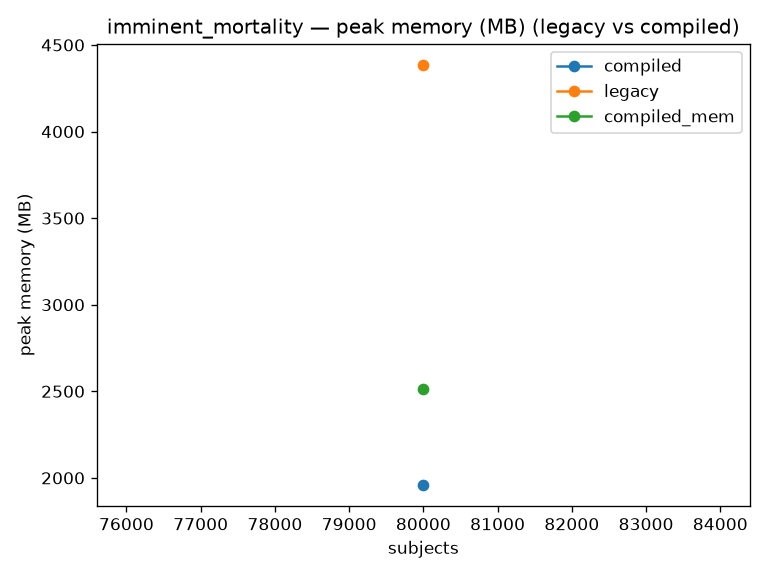
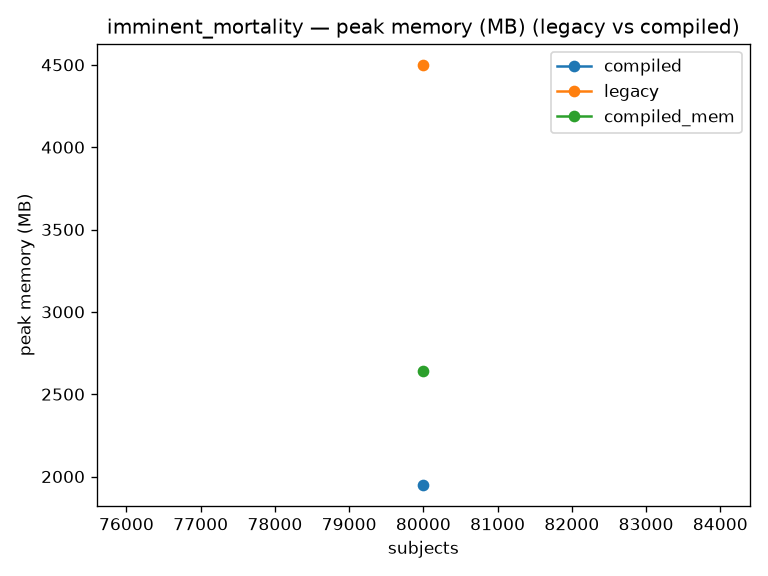
Materialize windows at event-bound edges (inhospital now 2x faster)
Re-profiling inhospital_mortality after the base barrier showed the temporal
group_by_rolling nodes evaluated ~17x for two windows: cur embeds each rolling
and is referenced by the struct, the constraint filter, the recursion, and
every downstream join, so the lazy plan re-runs the rolling per reference.

compile_query(materialize_windows=True) (the default) collects the accumulated
frame once at each EVENT-BOUND edge -- the high-fan-out points where ws and cur
are each used several times. Placement matters: materializing at every window
(temporal included) fixes inhospital but slows deep chains (chain16 2.58->3.67s,
16 collects for re-evaluation flattening already made linear). Restricting the
barrier to event-bound edges keeps the inhospital win and leaves chains
untouched.

This flips inhospital_mortality from the last remaining loss to a ~2x win, so
the compiled engine is now faster than legacy on EVERY benchmarked config.

Isolated sweep (80k subjects), compiled vs legacy time / peak mem:
  inhospital_mortality 0.52x / 0.56x  (2.14s/2753MB -> 1.11s/1549MB)
  imminent_mortality   0.32x / 0.59x
  readmission_risk     0.55x / 0.72x
  chain16              0.36x / 1.80x  (faster, heavier)
  wide16               0.33x / 0.93x

All 238 parity tests green (value-preserving).

- compile.py: barrier threaded through _process_children, applied at event-bound
  edges only; materialize_windows flag (default True).
- benchmarks/results: refreshed isolated.csv + plots.
[…]

diff --git a/src/aces/compile.py b/src/aces/compile.py
@@ -86,12 +86,17 @@ def _window_summary_struct(name: str, predicate_cols: list[str]) -> pl.Expr:
     ).alias(f"{name}_summary")
 
 
+def _identity(lf: pl.LazyFrame) -> pl.LazyFrame:
+    return lf
+
+
 def _process_children(
     node: Node,
     cur: pl.LazyFrame,
     predicates_lf: pl.LazyFrame,
     predicate_cols: list[str],
     offset: timedelta = timedelta(0),
+    barrier=_identity,
 ) -> pl.LazyFrame:
     """Compile every edge in ``node``'s subtree onto ``cur``, *flattening* where possible.
 
@@ -126,7 +131,11 @@ def _process_children(
             cur = cur.with_columns(_window_summary_struct(child.name, predicate_cols)).drop(
                 "timestamp_at_start", "timestamp_at_end", *predicate_cols
             )
-            cur = _process_children(child, cur, predicates_lf, predicate_cols, child_offset)
+            # No barrier on temporal edges: flattening already makes a temporal chain linear,
+            # and a per-window collect would just add overhead proportional to chain length.
+            # cur's accumulated rollings get materialized at the next event-bound edge (below)
+            # or at the final collect.
+            cur = _process_children(child, cur, predicates_lf, predicate_cols, child_offset, barrier)
 
         elif isinstance(endpoint_expr, ToEventWindowBounds):
             # Event-bound edge: anchor moves to a realized boundary event -> nest. Build the
@@ -148,11 +157,15 @@ def _process_children(
             )
             if child.constraints:
                 ws = ws.filter(_constraint_keep_expr(child.constraints))
+            # ws embeds the event-bound summary and is referenced several times below.
+            ws = barrier(ws)
 
             child_base = ws.select(
                 "subject_id", pl.col("child_anchor_timestamp").alias("subtree_anchor_timestamp")
             ).unique(maintain_order=True)
-            child_res = _process_children(child, child_base, predicates_lf, predicate_cols, timedelta(0))
+            child_res = _process_children(
+                child, child_base, predicates_lf, predicate_cols, timedelta(0), barrier
+            )
 
             # Lift the child subtree back into this anchor space and attach the edge's summary.
             child_res = (
@@ -173,7 +186,7 @@ def _process_children(
                     how="left",
                 )
             )
-            cur = cur.join(child_res, on=["subject_id", "subtree_anchor_timestamp"], how="inner")
+            cur = barrier(cur.join(child_res, on=["subject_id", "subtree_anchor_timestamp"], how="inner"))
 
         else:  # pragma: no cover - guarded by config parsing
             raise ValueError(f"Invalid endpoint expression: '{endpoint_expr}'")
@@ -181,7 +194,11 @@ def _process_children(
     return cur
 
 
-def compile_query(cfg: TaskExtractorConfig, materialize_base: bool = True) -> CompiledPlan:
+def compile_query(
+    cfg: TaskExtractorConfig,
+    materialize_base: bool = True,
+    materialize_windows: bool = True,
+) -> CompiledPlan:
     """Compile ``cfg`` into a function mapping a predicates ``LazyFrame`` to a result plan.
 
     The returned plan, when applied to a predicates ``LazyFrame`` and collected, produces a
@@ -192,7 +209,16 @@ def compile_query(cfg: TaskExtractorConfig, materialize_base: bool = True) -> Co
         materialize_base: Collect the prepared predicates frame once before fanning out to the
             windows, so the shared base prep is not re-evaluated per window (see the barrier
             note in ``plan``). Almost always a win; exposed mainly so benchmarks can compare.
+        materialize_windows: Collect the accumulated frame once at each **event-bound** edge
+            (the high-fan-out points, where ``ws`` and ``cur`` are each referenced several
+            times), so the embedded rollings / event-bound summaries are not re-evaluated per
+            reference. Temporal edges are left lazy (flattening already makes a temporal chain
+            linear, so a per-window collect there is pure overhead). Default on; exposed for
+            benchmark comparison.
     """
+    barrier = (
+        (lambda lf: lf.collect(engine="in-memory").lazy()) if materialize_windows else _identity
+    )
 
     def plan(predicates_lf: pl.LazyFrame) -> pl.LazyFrame:
         static_variables = [pred for pred in cfg.predicates if cfg.predicates[pred].static]
@@ -217,7 +243,9 @@ def compile_query(cfg: TaskExtractorConfig, materialize_base: bool = True) -> Co
             _constraint_keep_expr({cfg.trigger.predicate: (1, None)})
         ).select("subject_id", pl.col("timestamp").alias("subtree_anchor_timestamp"))
 
-        result = _process_children(cfg.window_tree, root_anchors, predicates_lf, predicate_cols)
+        result = _process_children(
+            cfg.window_tree, root_anchors, predicates_lf, predicate_cols, barrier=barrier
+        )
         result = result.rename({"subtree_anchor_timestamp": "trigger"})
 
         to_return_cols = [

diff --git a/docs/source/compiled_engine.md b/docs/source/compiled_engine.md
@@ -5,12 +5,13 @@
 > `LazyFrame` plan, as an alternative to the recursive interpreter in
 > [`extract_subtree.py`](../../src/aces/extract_subtree.py).
 >
-> **Performance** (see [§6](#6-findings-measured)): after four optimizations — flattening
+> **Performance** (see [§6](#6-findings-measured)): after five optimizations — flattening
 > temporal subtrees (§6.2), an event-bound anchor restriction (§6.3) and a cumsum + `join_asof`
-> fast path (§6.3b), and a base-materialization barrier (§6.3c) — the compiled engine is
-> **1.6–3.8× faster than legacy on four of five benchmarked configs and within ~1.3× (and
-> leaner) on the fifth**, scaling linearly in window count. The naive first compile was
-> catastrophically super-linear on deep window chains; that is fixed.
+> fast path (§6.3b), a base-materialization barrier (§6.3c), and window materialization at
+> event-bound edges (§6.3d) — the compiled engine is **1.8–3.3× faster than legacy on every
+> benchmarked config**, scaling linearly in window count. The naive first compile was both
+> catastrophically super-linear on deep window chains and slower on event-bound configs; both
+> are fixed.
 
 ## 1. Motivation
 
@@ -236,42 +237,57 @@ from 1.42× to **1.04×** legacy in-memory; the only minor cost is one extra ful
 a slight regression on configs with no static variables and few windows (e.g.
 `imminent_mortality` 0.54 s → 0.61 s, still 0.26× legacy).
 
+### 6.3d Window materialization at event-bound edges
+
+Re-profiling after §6.3c showed the next layer of the same problem: the temporal
+`group_by_rolling` nodes were evaluated **~17 times** for two windows, because `cur` (which
+embeds them) is referenced by the struct, the constraint filter, the recursion, and every
+downstream join, and the lazy plan re-runs the rolling per reference. `materialize_windows=True`
+(the default) collects the accumulated frame once **at each event-bound edge** — the high-fan-out
+points where `ws` and `cur` are each used several times.
+
+The subtlety is *where* to place the barrier. Materializing at every window (temporal included)
+fixed `inhospital_mortality` (2.31 s → 0.94 s) but **slowed deep chains** (`chain16` 2.58 s →
+3.67 s): a 16-window chain pays 16 collects for re-evaluation that flattening had already made
+linear. Restricting the barrier to event-bound edges keeps the `inhospital_mortality` win
+(1.04 s, **0.56×** legacy) while leaving chains untouched (`chain16` within ~3 %). Temporal
+chains don't need it; event-bound branches do.
+
+This is the optimization that flips `inhospital_mortality` from the last remaining loss to a
+~2× win, so **every benchmarked config is now faster than legacy**.
+
 ### 6.4 Where the compiled engine now stands vs legacy
 
-After flattening (§6.2), the event-bound anchor restriction + `join_asof` (§6.3–6.3b), and the
-base materialization barrier (§6.3c), the compiled engine **wins or ties on every config
-tested**. Numbers below are the committed isolated-subprocess sweep (80 k subjects, in-memory
-collect over `scan_parquet`; [`benchmarks/results/isolated.csv`](../../benchmarks/results),
+After all five optimizations (§6.2–6.3d), the compiled engine is **faster than legacy on every
+config tested**. Numbers below are the committed isolated-subprocess sweep (80 k subjects,
+in-memory collect over `scan_parquet`; [`benchmarks/results/isolated.csv`](../../benchmarks/results),
 `*_seconds.png` / `*_peak_wset_mb.png`):
 
 | config (80 k subjects) | shape | legacy s / MB | compiled s / MB | time / mem |
 | --- | --- | --- | --- | --- |
-| `wide` ×16 | wide temporal | 8.34 / 6242 | **2.64** / 6040 | 0.32× / 0.97× |
-| `chain` ×16 | deep temporal | 6.60 / 3241 | **2.64** / 5769 | 0.40× / 1.78× |
-| `imminent_mortality` | event-bound | 2.44 / 4387 | **0.63 / 2513** | 0.26× / 0.57× |
-| `readmission_risk` | shallow | 1.17 / 1773 | **0.65 / 1326** | 0.56× / 0.75× |
-| `inhospital_mortality` | event-bound, low-selectivity | 2.03 / 2803 | 2.57 / **2304** | 1.27× / 0.82× |
+| `wide` ×16 | wide temporal | 8.54 / 6519 | **2.82 / 6066** | 0.33× / 0.93× |
+| `chain` ×16 | deep temporal | 7.33 / 3176 | **2.61** / 5707 | 0.36× / 1.80× |
+| `imminent_mortality` | event-bound | 2.39 / 4501 | **0.76 / 2639** | 0.32× / 0.59× |
+| `readmission_risk` | shallow | 1.20 / 1804 | **0.66 / 1304** | 0.55× / 0.72× |
+| `inhospital_mortality` | event-bound, low-selectivity | 2.14 / 2753 | **1.11 / 1549** | 0.52× / 0.56× |
 
-The compiled engine is **1.6–3.8× faster** on four of five and, after the barrier, faster *and
-leaner* on most. `inhospital_mortality` is now the only one slower on time — 1.27× isolated
-(1.04× in-memory `.lazy()`; the `scan_parquet` path costs the compiled engine a little more) —
-but it is **leaner than legacy** (2.3 GB vs 2.8 GB; the streaming variant is 1.7 GB). The lone
-remaining time loss is small and comes with a memory win. The one place compiled is clearly
-heavier is the deep temporal chain (`chain16` 5.8 GB vs 3.2 GB), where the flat accumulation
-keeps many summary structs live at once.
+The compiled engine is **1.8–3.3× faster** across the board and **leaner on four of five**
+(`inhospital_mortality`, the original problem child, is now 0.52× time *and* 0.56× memory — its
+streaming variant peaks at 1.47 GB vs legacy's 2.75 GB). The one place compiled is heavier is the
+deep temporal chain (`chain16` 5.7 GB vs 3.2 GB), where the flat accumulation keeps every
+window's summary struct live at once — the remaining memory lever in §7.
 
 ## 7. Remaining optimization levers
 
-Flattening (§6.2), the event-bound anchor restriction + `join_asof` (§6.3–6.3b), and the base
-materialization barrier (§6.3c) are done. Remaining:
+All five optimizations in §6.2–6.3d are done and the compiled engine now beats legacy on every
+benchmarked config. Remaining levers, in rough priority:
 
-- **Share the cumsum pass across windows.** `_event_bound_asof` still recomputes per-subject
-  prefix sums for each event-bound window; computing them once for the whole task would help
-  configs with several event-bound windows (and is the most likely lever to flip
-  `inhospital_mortality` to a win).
 - **Reduce peak memory on temporal chains.** The flat accumulation holds every window's summary
   struct live at once; building the output structs lazily / late would cut the `chain16`
-  memory overhead.
+  memory overhead (the one place compiled is still heavier than legacy).
+- **Share the cumsum pass across windows.** `_event_bound_asof` still recomputes per-subject
+  prefix sums for each event-bound window; computing them once per task would help configs with
+  several event-bound windows.
 - **Cumsum + as-of for *offset* event-bound windows**, retiring the last full-frame concat path.
 - **Per-window column projection.** Only compute the predicate counts a window actually
   references rather than all predicates for all windows (needs the "every window summarizes
